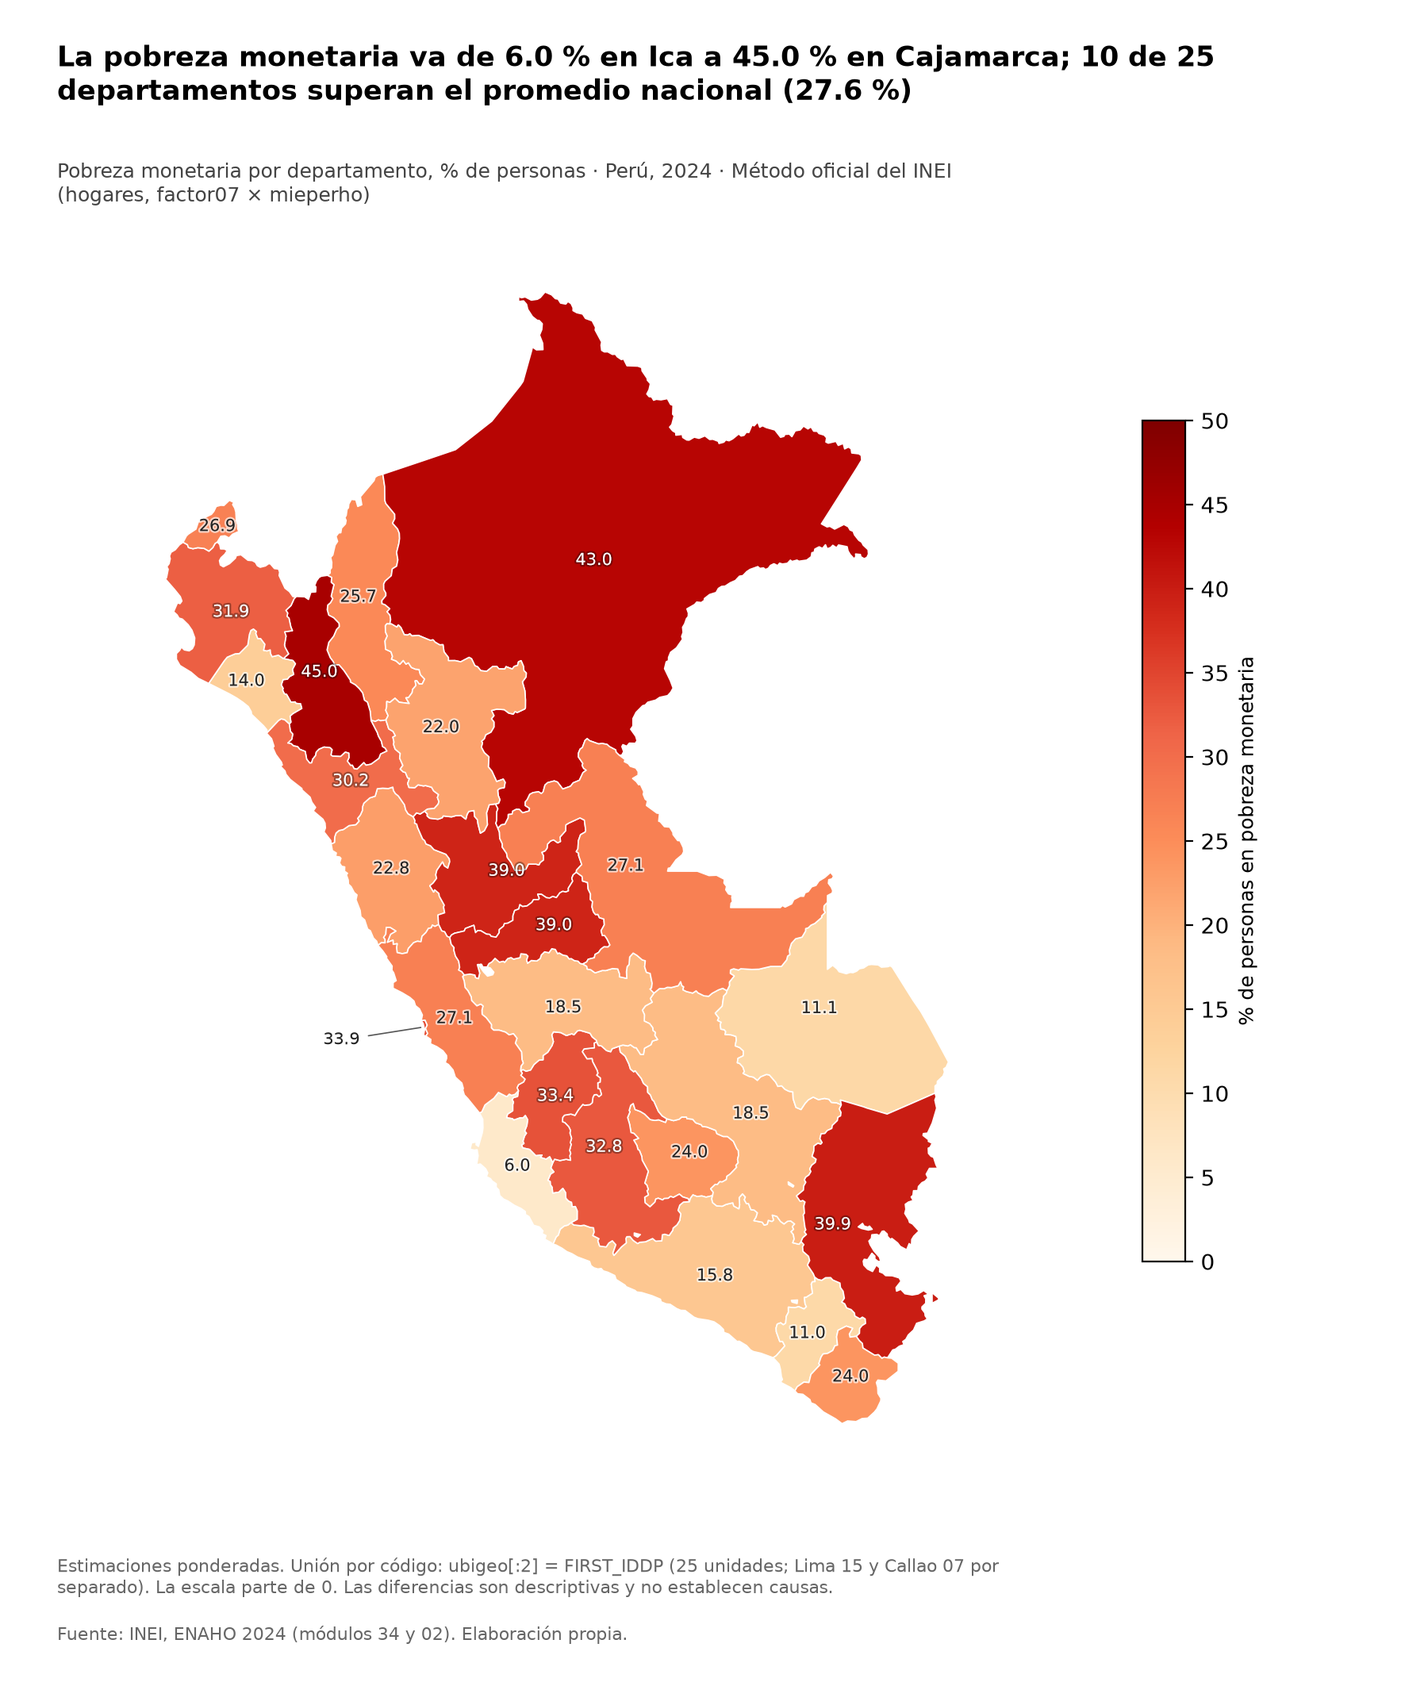
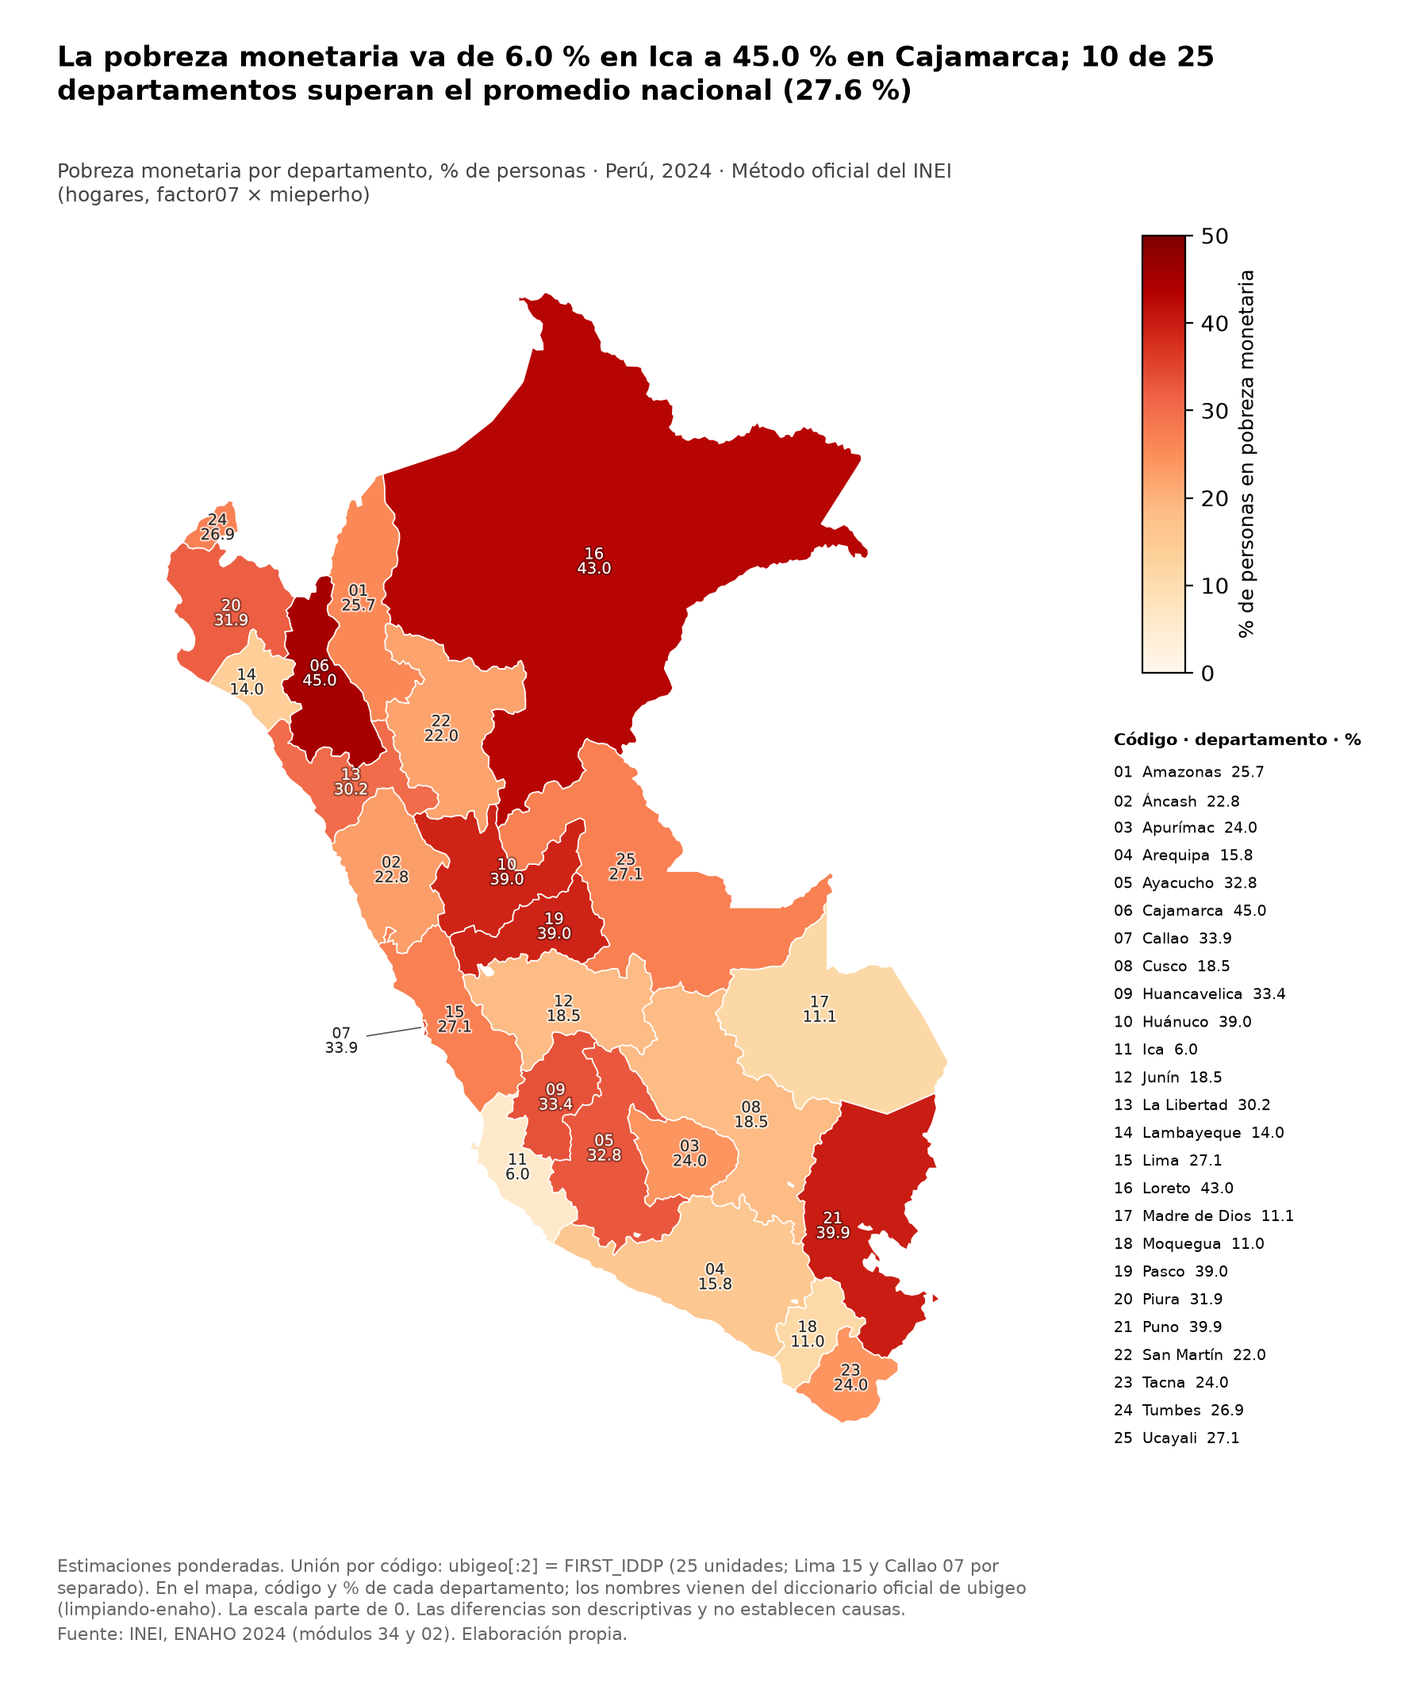
tarea_4: diccionario oficial de departamentos (ubigeo) y nombre junto al código en indicadores y mapa

diff --git a/tarea_4/.claude/skills/mapeando-enaho/scripts/mapear.py b/tarea_4/.claude/skills/mapeando-enaho/scripts/mapear.py
@@ -3,7 +3,8 @@
     uv run .claude/skills/mapeando-enaho/scripts/mapear.py
 
 Une los indicadores con los límites departamentales por CÓDIGO: salidas/indicadores.csv (categoria = ubigeo[:2]) con
-FIRST_IDDP del GeoJSON. Nunca por nombre. Los valores son estimaciones PONDERADAS del método oficial del INEI
+FIRST_IDDP del GeoJSON. Nunca por nombre. El nombre de cada departamento viene de indicadores.csv (nombre_categoria,
+diccionario oficial de limpiando-enaho) y solo se contrasta con NOMBDEP del GeoJSON. Los valores son estimaciones PONDERADAS del método oficial del INEI
 (hogares, factor07 x mieperho), calculadas por la skill limpiando-enaho: aquí no se calcula ninguna cifra a mano.
 
 Se detiene con error explícito si: falta la base procesada (salidas/personas_2024.parquet), validacion.txt registra una
@@ -14,6 +15,7 @@ mapas/comparacion_referencia_2024.csv.
 import argparse
 import sys
 import textwrap
+import unicodedata
 from pathlib import Path
 
 import geopandas as gpd
@@ -30,17 +32,15 @@ OFICIAL = "hogares_factor07_x_mieperho"
 DEPARTAMENTOS = {f"{i:02d}" for i in range(1, 26)}
 TOLERANCIA_REF = 0.05   # la referencia de la sesión 16 está redondeada a 1 decimal: ±0.05 pp
 FUENTE = "Fuente: INEI, ENAHO 2024 (módulos 34 y 02). Elaboración propia."
-ACENTOS = {"Ancash": "Áncash", "Apurimac": "Apurímac", "Huanuco": "Huánuco", "Junin": "Junín", "San Martin": "San Martín"}
 
 
 class Falla(Exception):
     """Error explícito que detiene el proceso."""
 
 
-def nombre_departamento(nombdep: str) -> str:
-    """«SAN MARTIN» -> «San Martín», «MADRE DE DIOS» -> «Madre de Dios»."""
-    t = " ".join(w.lower() if w in ("DE", "DEL", "LA") and i else w.capitalize() for i, w in enumerate(nombdep.split()))
-    return ACENTOS.get(t, t)
+def clave_nombre(texto: str) -> str:
+    """«San Martín» -> «SAN MARTIN»: solo para comparar el nombre del diccionario con NOMBDEP del GeoJSON."""
+    return "".join(c for c in unicodedata.normalize("NFD", texto) if unicodedata.category(c) != "Mn").upper().strip()
 
 
 def cargar(raiz: Path):
@@ -65,7 +65,10 @@ def unir(ind: pd.DataFrame, geo: gpd.GeoDataFrame):
     """Une por código (categoria = ubigeo[:2] con FIRST_IDDP) y exige 25 unidades con dato."""
     geo = geo.assign(FIRST_IDDP=geo["FIRST_IDDP"].astype(str).str.zfill(2))
     d = ind[(ind["dimension"] == "departamento") & (ind["metodo"] == OFICIAL) & (ind["indicador"] == "pobreza monetaria")]
-    d = d[["categoria", "valor_pct", "n_muestra"]]
+    if "nombre_categoria" not in d.columns:
+        raise Falla("indicadores.csv no trae nombre_categoria (diccionario oficial de departamentos). "
+                    "Vuelva a ejecutar la skill limpiando-enaho.")
+    d = d[["categoria", "nombre_categoria", "valor_pct", "n_muestra"]]
     if set(geo["FIRST_IDDP"]) != DEPARTAMENTOS:
         raise Falla(f"El GeoJSON no trae los 25 códigos 01-25 en FIRST_IDDP: {sorted(set(geo['FIRST_IDDP']))}")
     try:
@@ -78,7 +81,12 @@ def unir(ind: pd.DataFrame, geo: gpd.GeoDataFrame):
         raise Falla(f"La unión por código debe dar 25 unidades con dato; sin dato: {sin_dato}; indicadores sin geometría: {sobran}.")
     if not {"07", "15"} <= set(m["FIRST_IDDP"]):
         raise Falla("Lima (15) y Callao (07) deben estar separados.")
-    m["nombre"] = m["NOMBDEP"].map(nombre_departamento)
+    # El nombre viene del diccionario oficial (vía indicadores.csv); el GeoJSON solo sirve para comprobarlo.
+    m["nombre"] = m["nombre_categoria"]
+    distintos = m[m["nombre"].map(clave_nombre) != m["NOMBDEP"].map(clave_nombre)]
+    if not distintos.empty:
+        raise Falla("El diccionario de departamentos y el GeoJSON no coinciden para los códigos "
+                    f"{distintos[['FIRST_IDDP', 'nombre', 'NOMBDEP']].values.tolist()}.")
     return m
 
 
@@ -107,7 +115,7 @@ def dibujar(m: gpd.GeoDataFrame, nac: float, raiz: Path) -> Path:
               f"{alto['nombre']}; {sobre} de 25 departamentos superan el promedio nacional ({nac:.1f} %)")
     fig = Figure(figsize=(9, 10.6))
     ax = fig.add_axes([0.04, 0.12, 0.70, 0.74])
-    cax = fig.add_axes([0.80, 0.25, 0.03, 0.5])
+    cax = fig.add_axes([0.80, 0.60, 0.03, 0.26])
     fig.text(0.04, 0.975, "\n".join(textwrap.wrap(titulo, 78)), fontsize=12.5, fontweight="bold", va="top")
     fig.text(0.04, 0.905, "Pobreza monetaria por departamento, % de personas · Perú, 2024 · Método oficial del INEI\n"
              "(hogares, factor07 × mieperho)", fontsize=9, color="#444444", va="top")
@@ -120,17 +128,22 @@ def dibujar(m: gpd.GeoDataFrame, nac: float, raiz: Path) -> Path:
         xy, offset = (p.x, p.y), None
         if f["FIRST_IDDP"] == "07":   # Callao es muy pequeño: su etiqueta va al mar, con una línea
             offset = (-38, -6)
-        t = ax.annotate(f"{f['valor_pct']:.1f}", xy, xytext=offset, textcoords="offset points" if offset else "data",
-                        fontsize=7.5, ha="center", va="center", color="white" if oscuro and not offset else "#222222",
+        t = ax.annotate(f"{f['FIRST_IDDP']}\n{f['valor_pct']:.1f}", xy, xytext=offset, textcoords="offset points" if offset else "data",
+                        fontsize=7, linespacing=0.95, ha="center", va="center", color="white" if oscuro and not offset else "#222222",
                         arrowprops={"arrowstyle": "-", "color": "#555555", "lw": 0.6} if offset else None, zorder=6)
         if not offset:
             t.set_path_effects([pe.withStroke(linewidth=1.6, foreground="#00000055" if oscuro else "#ffffffaa")])
     barra = fig.colorbar(matplotlib.cm.ScalarMappable(norm=norm, cmap=cmap), cax=cax)
     barra.set_label("% de personas en pobreza monetaria", fontsize=9)
-    barra.set_ticks(range(0, int(vmax) + 1, 5))
+    barra.set_ticks(range(0, int(vmax) + 1, 10))
+    # Clave código -> nombre (diccionario oficial de limpiando-enaho), para leer el mapa sin deducir nombres
+    fig.text(0.78, 0.565, "Código · departamento · %", fontsize=7.5, fontweight="bold", va="top")
+    for i, (_, f) in enumerate(m.sort_values("FIRST_IDDP").iterrows()):
+        fig.text(0.78, 0.545 - i * 0.0165, f"{f['FIRST_IDDP']}  {f['nombre']}  {f['valor_pct']:.1f}", fontsize=7, va="top")
     fig.text(0.04, 0.075, "\n".join(textwrap.wrap(
         "Estimaciones ponderadas. Unión por código: ubigeo[:2] = FIRST_IDDP (25 unidades; Lima 15 y Callao 07 por "
-        "separado). La escala parte de 0. Las diferencias son descriptivas y no establecen causas.", 110)),
+        "separado). En el mapa, código y % de cada departamento; los nombres vienen del diccionario oficial de ubigeo "
+        "(limpiando-enaho). La escala parte de 0. Las diferencias son descriptivas y no establecen causas.", 110)),
         fontsize=8, color="#666666", va="top")
     fig.text(0.04, 0.025, FUENTE, fontsize=8, color="#666666")
     destino = raiz / "mapas"

diff --git a/tarea_4/.claude/skills/limpiando-enaho/scripts/limpiar.py b/tarea_4/.claude/skills/limpiando-enaho/scripts/limpiar.py
@@ -8,7 +8,7 @@ Pasos, siempre en este orden:
   2. Normalizar los nombres de columna a minúscula («aÑo» pasa a «anio»).
   3. Filtrar residentes habituales: ((p204 == 1) & (p205 == 2)) | ((p204 == 2) & (p206 == 1)).
   4. Unir personas con hogares por conglome, vivienda y hogar con merge(validate="m:1").
-  5. Construir departamento (ubigeo[:2]), área urbano/rural (estrato <= 5), pobre (pobreza <= 2) y sexo.
+  5. Construir departamento (ubigeo[:2]) y su nombre (referencias/departamentos_ubigeo.csv), área urbano/rural (estrato <= 5), pobre (pobreza <= 2) y sexo.
   6. Validar todo y escribir salidas/validacion.txt con cada verificación APROBADA o FALLIDA.
   7. Si NINGUNA verificación esencial falló, guardar salidas/personas_2024.parquet y salidas/indicadores.csv.
 
@@ -30,6 +30,9 @@ SUMARIA = f"sumaria-{ANIO}.dta"              # la elegida: ver reference.md, sec
 SUMARIA_12G = f"sumaria-{ANIO}-12g.dta"      # solo se usa para comprobar que la elección no cambia la pobreza
 MIEMBROS = f"enaho01-{ANIO}-200.dta"
 DEPARTAMENTOS = {f"{i:02d}" for i in range(1, 26)}
+# Diccionario oficial código -> nombre (ubigeo del INEI, 2 dígitos; Lima 15 y Callao 07 separados). Los nombres
+# salen de este archivo, nunca de la memoria del agente ni de adivinarlos a partir del código.
+DICCIONARIO = Path(__file__).resolve().parents[1] / "referencias" / "departamentos_ubigeo.csv"
 
 # Valores de referencia (issue #201 y sesión 16). Son metas contra las que se valida, nunca resultados.
 REF_POBREZA, REF_URBANA, REF_RURAL, TOLERANCIA_PP = 27.6, 24.8, 39.3, 0.1
@@ -69,6 +72,22 @@ def leer(ruta: Path, llaves: list[str], columnas: list[str] | None = None) -> pd
     return df
 
 
+def cargar_diccionario(ruta: Path = DICCIONARIO) -> dict[str, str]:
+    """Lee el diccionario código -> nombre y exige exactamente los 25 códigos 01-25, sin repetidos ni nombres vacíos."""
+    if not ruta.exists():
+        raise Falla(f"Falta el diccionario de departamentos {ruta}.")
+    d = pd.read_csv(ruta, dtype=str, encoding="utf-8")
+    if list(d.columns) != ["codigo", "nombre"]:
+        raise Falla(f"{ruta.name} debe tener las columnas codigo,nombre; trae {list(d.columns)}.")
+    d = d.apply(lambda s: s.str.strip())
+    if d["codigo"].duplicated().any() or d["nombre"].duplicated().any() or d["nombre"].isna().any() \
+            or set(d["codigo"]) != DEPARTAMENTOS:
+        raise Falla(f"{ruta.name} debe traer los 25 códigos 01-25 una sola vez, cada uno con un nombre distinto.")
+    if d.set_index("codigo").loc[["07", "15"], "nombre"].tolist() != ["Callao", "Lima"]:
+        raise Falla(f"{ruta.name}: Callao debe ser 07 y Lima 15, por separado.")
+    return dict(zip(d["codigo"], d["nombre"]))
+
+
 # --------------------------------------------------------------------------------------------- estimaciones
 def tasa_pobreza(df: pd.DataFrame, peso: str, mascara=None) -> float:
     """% de pobres ponderado: suma de pesos de los pobres / suma de pesos de todos (nunca un promedio simple)."""
@@ -96,6 +115,7 @@ class Verificaciones:
 # --------------------------------------------------------------------------------------------- proceso
 def procesar(raiz: Path, datos: Path, salidas: Path) -> None:
     v = Verificaciones()
+    nombres = cargar_diccionario()
     ruta_sum, ruta_mie = buscar_dta(datos, SUMARIA), buscar_dta(datos, MIEMBROS)
     ruta_12g = buscar_dta(datos, SUMARIA_12G, obligatorio=False)
     rel = lambda p: p.relative_to(raiz).as_posix() if p.is_relative_to(raiz) else str(p)  # noqa: E731
@@ -147,6 +167,7 @@ def procesar(raiz: Path, datos: Path, salidas: Path) -> None:
 
     # 5. Variables nuevas
     unido["departamento"] = unido["ubigeo"].str[:2]
+    unido["nombre_departamento"] = unido["departamento"].map(nombres)
     unido["urbano"] = unido["estrato"] <= 5
     unido["area"] = np.where(unido["urbano"], "Urbano", "Rural")
     unido["pobre"] = unido["pobreza"] <= 2
@@ -237,7 +258,7 @@ def procesar(raiz: Path, datos: Path, salidas: Path) -> None:
                     f"Revise {rel(salidas / 'validacion.txt')}. No se ajustó ningún resultado.")
 
     # 7. Guardar la base y los indicadores
-    columnas = LLAVES_PERSONA + ["ubigeo", "departamento", "dominio", "estrato", "area", "urbano", "sexo", "edad",
+    columnas = LLAVES_PERSONA + ["ubigeo", "departamento", "nombre_departamento", "dominio", "estrato", "area", "urbano", "sexo", "edad",
                                  "pobreza", "pobre", "pobre_extremo", "facpob07", "factor07", "mieperho"]
     unido[columnas].to_parquet(parquet, index=False)
 
@@ -247,6 +268,7 @@ def procesar(raiz: Path, datos: Path, salidas: Path) -> None:
     def indicador(nombre, dimension, categoria, tabla, mascara, peso, metodo, col="pobre"):
         d = tabla if mascara is None else tabla[mascara]
         filas.append({"indicador": nombre, "metodo": metodo, "dimension": dimension, "categoria": categoria,
+                      "nombre_categoria": nombres[categoria] if dimension == "departamento" else categoria,
                       "valor_pct": float(100 * d.loc[d[col], peso].sum() / d[peso].sum()), "n_muestra": len(d),
                       "poblacion_expandida": float(d[peso].sum()), "ponderador": peso, "unidad": "% de personas"})
 

diff --git a/tarea_4/README.md b/tarea_4/README.md
@@ -212,6 +212,7 @@ Los registros se sanean con `informes/sanear_registro.py` antes de guardarse (oc
 ## 13. Innovaciones
 
 - **Verificación automática de cifras.** `informes/generar_trazabilidad.py` arma `informes/trazabilidad.md` con las cifras que salen de las respuestas de las herramientas (`ejecucion.jsonl`) y de los archivos de la ENAHO. Además hace una verificación independiente: consulta la API del BCRP sin pasar por el MCP y recalcula la pobreza desde los microdatos. `informes/verificar_informe.py` falla si el informe contiene un número que no está en la trazabilidad; hoy comprueba 211 números. Se probó en negativo con una copia del informe a la que se le inyectaron tres cifras (31.77, -0.55 y 39.4): el verificador falló con código 1 y señaló las tres (registrado en `evidencias_ia/skills/04_skills_2a_2b.md`).
+- **Trazabilidad de nombres de departamento.** La skill `limpiando-enaho` trae un diccionario oficial de los 25 códigos de departamento del ubigeo (`referencias/departamentos_ubigeo.csv`, con Lima 15 y Callao 07 por separado). `limpiar.py` se detiene si al diccionario le falta un código o tiene uno repetido, y escribe el nombre junto al código en `salidas/indicadores.csv` (columna `nombre_categoria`) y en el parquet (`nombre_departamento`). `mapeando-enaho` toma los nombres de esa columna, los contrasta con `NOMBDEP` del GeoJSON (se detiene si no coinciden) y el mapa muestra el código y el % sobre cada departamento, con una clave código · nombre · % al costado. Así el agente ya no asocia códigos con nombres de memoria. Al volver a ejecutar, las validaciones siguieron en 16 aprobadas y 0 fallidas, y las cifras de `indicadores.csv` y de `mapas/comparacion_referencia_2024.csv` quedaron idénticas a las anteriores.
 - **Detección de inconsistencias entre herramientas.** `mapeando-enaho` compara los 25 departamentos con la referencia de la sesión 16 (tolerancia de 0.05 pp por el redondeo de la referencia). Si alguno se desvía, el script termina con error y no guarda el mapa.
 - **Pruebas de robustez.** `mcp/test_server.py` tiene 12 pruebas: 8 originales de la sesión 04, 2 propias de `graficar_serie` y 2 de robustez, una para un período sin datos (2030), que da un error claro, y otra para una búsqueda sin resultados, que devuelve una lista vacía.
 - **Doble método de estimación, rotulado.** La pobreza se calcula con el método oficial del INEI (hogares, `factor07 × mieperho`) y, de forma informativa, por personas (`facpob07`). `indicadores.csv` rotula el método de cada fila, y la diferencia de universo se explica en `limpiando-enaho/reference.md` y en la sección 10.

diff --git a/tarea_4/.claude/skills/limpiando-enaho/reference.md b/tarea_4/.claude/skills/limpiando-enaho/reference.md
@@ -74,6 +74,14 @@ ponderar) y la comparación de las dos sumarias.
 `departamento` va de `01` a `25`: Lima (`15`) y Callao (`07`) están separados, como en el GeoJSON departamental
 (`FIRST_IDDP`). Se conserva siempre como texto de 2 caracteres.
 
+El nombre de cada código sale del diccionario oficial [`referencias/departamentos_ubigeo.csv`](referencias/departamentos_ubigeo.csv)
+(columnas `codigo,nombre`; los 25 departamentos del ubigeo del INEI, con tildes). El script lo lee y se detiene con
+`ERROR` si no trae exactamente los códigos `01` a `25`, si hay repetidos o si Callao no es `07` y Lima `15`. Lo usa
+para escribir `nombre_departamento` en el parquet y `nombre_categoria` en `indicadores.csv` (en las filas que no son
+de departamento, `nombre_categoria` repite la categoría: Perú, Urbano, Rural, Hombre, Mujer). Así ningún agente tiene
+que asociar códigos con nombres de memoria. `15` es el departamento de Lima completo (Lima Metropolitana y Lima
+provincias); el Callao (`07`) va aparte.
+
 ## Limitaciones
 
 - Son estimaciones puntuales: no se calculan errores estándar ni intervalos de confianza (la muestra es compleja, con

diff --git a/tarea_4/.claude/skills/mapeando-enaho/SKILL.md b/tarea_4/.claude/skills/mapeando-enaho/SKILL.md
@@ -29,6 +29,10 @@ Skill) y espera a que termine bien; después sigue con los pasos de abajo. Si `l
 
 - **Une por código, nunca por nombre:** `ubigeo[:2]` (columna `categoria` de `indicadores.csv`) con `FIRST_IDDP`, ambos
   como texto de 2 caracteres. «APURIMAC» no es «Apurímac».
+- **Nombres desde el diccionario, no de memoria:** el nombre de cada departamento es la columna `nombre_categoria` de
+  `indicadores.csv` (diccionario oficial de `limpiando-enaho`). El script lo contrasta con `NOMBDEP` del GeoJSON y se
+  detiene si no coinciden. El mapa rotula cada departamento con su código y su %, y al costado lleva la clave código ·
+  nombre · %. Para nombrar un departamento en la respuesta, tómalo de ahí; no lo deduzcas del código.
 - **25 unidades con dato, Lima (15) y Callao (07) separados.** El script lo verifica y se detiene si no se cumple.
 - **Siempre ponderado:** los valores son el método **oficial del INEI** (hogares, `factor07 × mieperho`), el mismo de
   `validacion.txt`. No recalcules nada a mano.

diff --git a/tarea_4/informes/trazabilidad.md b/tarea_4/informes/trazabilidad.md
@@ -3,7 +3,7 @@
 Generado por `informes/generar_trazabilidad.py`. **Toda cifra del informe debe estar en este archivo**: `informes/verificar_informe.py` falla si el informe contiene un número que no aparece aquí.
 
 - Registro de la ejecución: `evidencias_ia/integracion/ejecucion.jsonl` (sha256 `ac126c881e275fc6`)
-- Indicadores ENAHO: `salidas/indicadores.csv` (sha256 `cd679f1ca3c3411c`)
+- Indicadores ENAHO: `salidas/indicadores.csv` (sha256 `2308ca2a28cdc5c8`)
 - Las cifras del BCRP se tomaron de las respuestas de las herramientas MCP en ese registro; no se reconsultó el BCRP para obtenerlas. Solo la sección H consulta las fuentes de nuevo, y lo declara.
 - Los valores derivados se calculan con los valores sin redondear: restar a mano los valores redondeados puede diferir en una centésima.
 - Limitación de esta verificación: acepta un número del informe si aparece en cualquier parte de este archivo; no comprueba que se use en el contexto correcto. Eso lo revisa la lectura del informe.

diff --git a/tarea_4/.claude/skills/limpiando-enaho/SKILL.md b/tarea_4/.claude/skills/limpiando-enaho/SKILL.md
@@ -26,6 +26,10 @@ ponderación, validación) está en el script; tú solo lo ejecutas y lees el re
 
 ## Reglas que debes respetar al usar los resultados
 
+- **Nombres de departamento, del diccionario.** El código `ubigeo[:2]` se asocia con su nombre solo mediante
+  [referencias/departamentos_ubigeo.csv](referencias/departamentos_ubigeo.csv) (25 códigos, Lima `15` y Callao `07`
+  separados). `indicadores.csv` ya trae la columna `nombre_categoria` y el parquet `nombre_departamento`: úsalas y
+  nunca deduzcas un nombre de memoria.
 - **Siempre ponderado.** Nunca promedios simples: la pobreza sin ponderar sale distinta (el archivo de validación lo muestra).
 - **Dos métodos, rotulados** (columna `metodo` de `indicadores.csv`):
   - `hogares_factor07_x_mieperho`: método oficial del INEI y el que reproduce las cifras de referencia. Úsalo para
